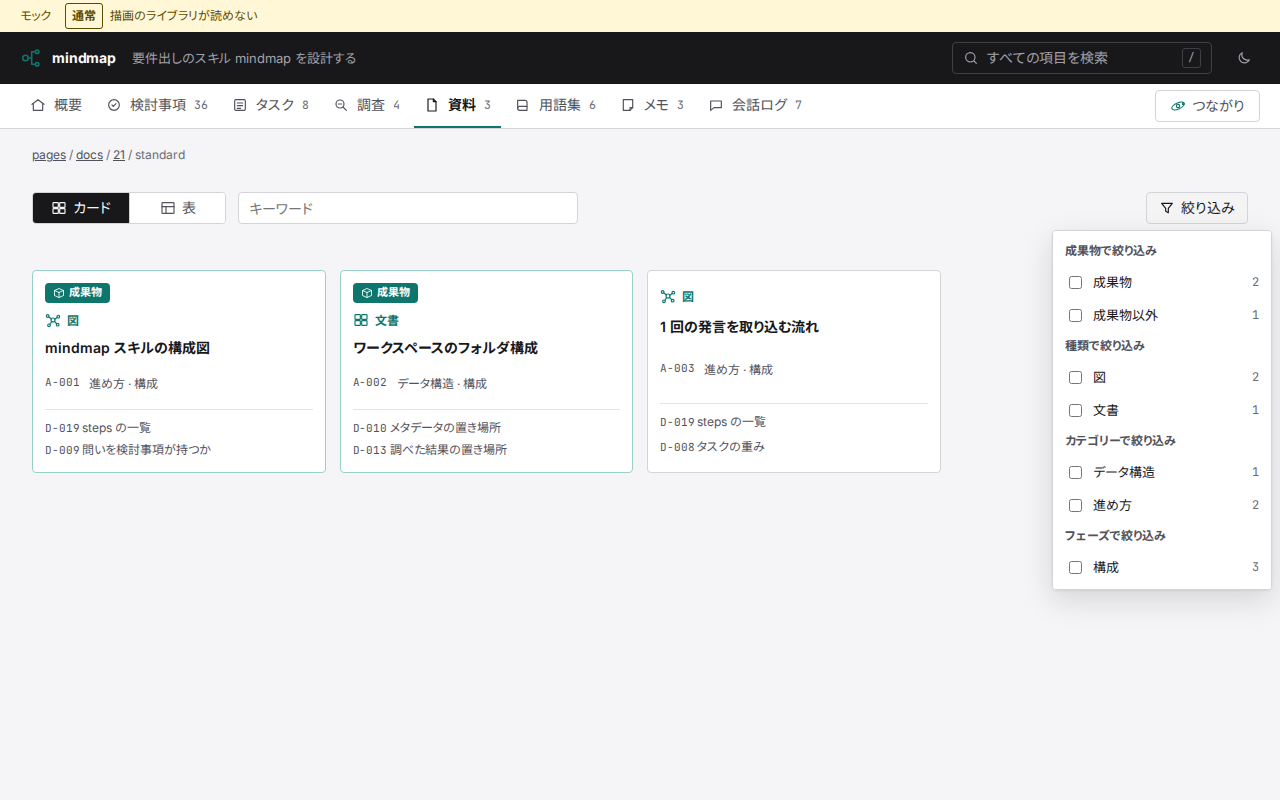
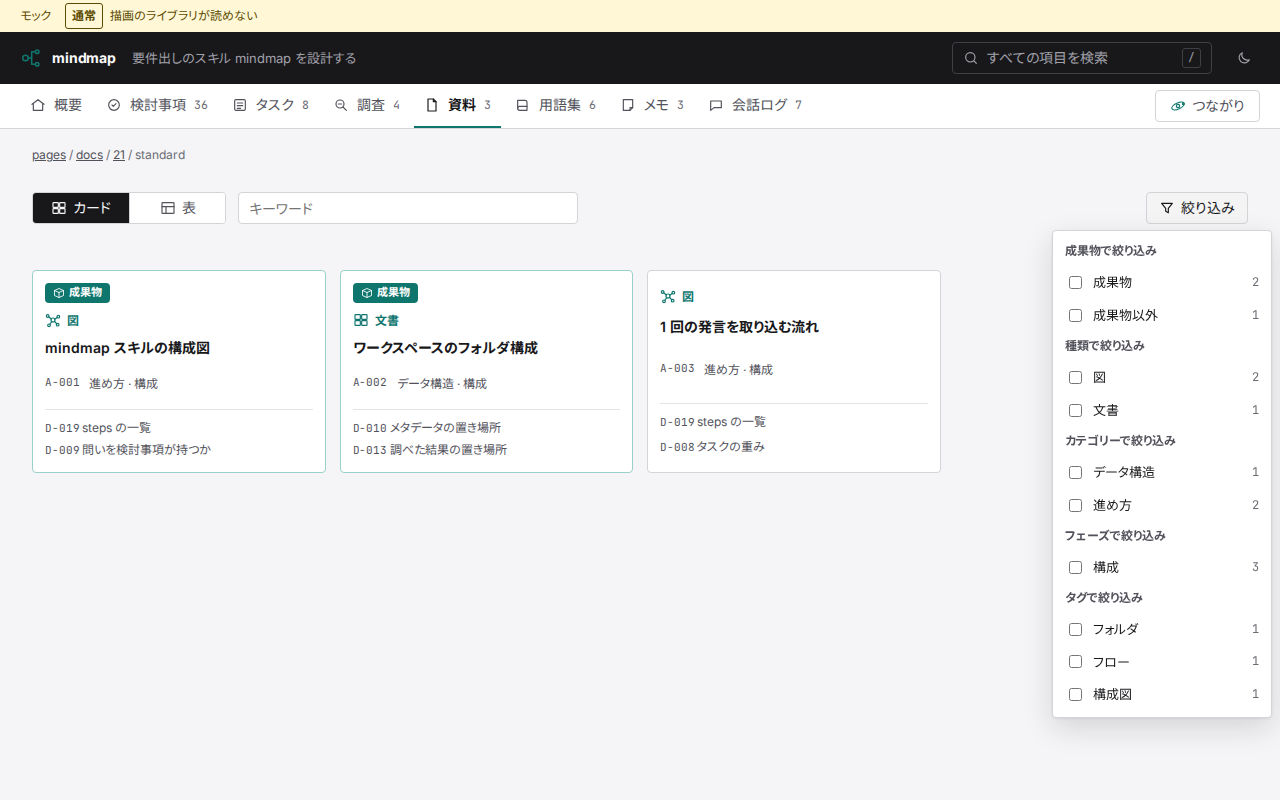
照合の差異: 資料の絞り込みのポップオーバーをタグの段まで画面に収め、撮り直す

diff --git a/dev/mock/refs/21/assets/style.css b/dev/mock/refs/21/assets/style.css
@@ -236,7 +236,7 @@ button.n-item.off { color: var(--text-3); border-style: dashed; }
 .md-error { color: var(--st-review); font-size: var(--fs-small); }
 
 /* ===== ポップオーバーと検索 ===== */
-.pop { margin: 0; inset: auto; position: fixed; min-width: 220px; max-width: 320px; max-height: 360px; overflow: auto; padding: 6px; background: var(--surface); color: var(--text); border: 1px solid var(--border); border-radius: var(--radius); box-shadow: var(--shadow-pop); }
+.pop { margin: 0; inset: auto; position: fixed; min-width: 220px; max-width: 320px; max-height: min(560px, calc(100dvh - 16px)); overflow: auto; padding: 6px; background: var(--surface); color: var(--text); border: 1px solid var(--border); border-radius: var(--radius); box-shadow: var(--shadow-pop); }
 .pop h3 { margin: 4px 6px 6px; font-size: var(--fs-xs); color: var(--text-2); font-weight: 600; }
 .pop label { display: flex; align-items: center; gap: 8px; padding: 6px; border-radius: 3px; font-size: var(--fs-small); }
 .pop label:hover { background: var(--hover); }
